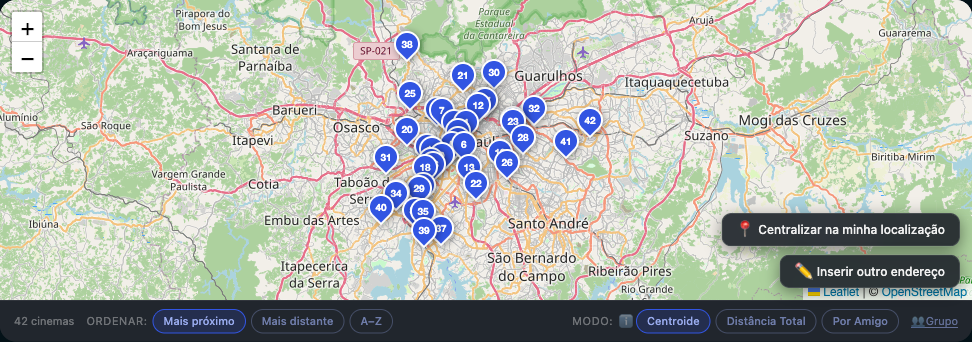
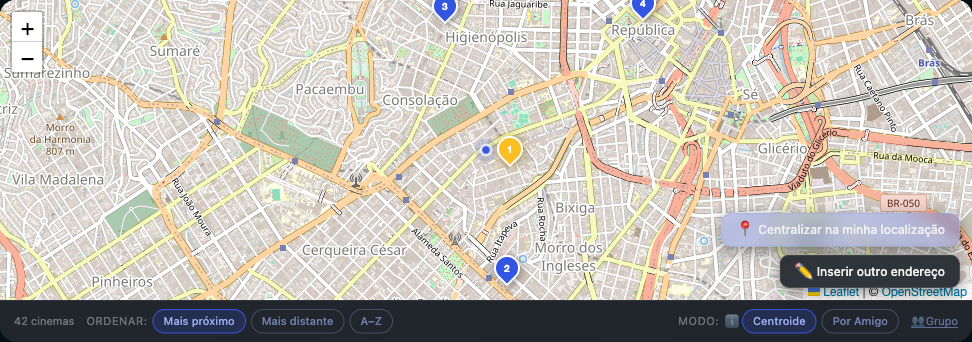
Update README screenshots for group mode and Por Amigo feature.
Add new capture flow with three group addresses, fix missing image paths, and crop the friends modal for cleaner README embeds.

diff --git a/README.md b/README.md
@@ -13,7 +13,7 @@ Veja os horários, compare distâncias e encontre o cinema mais conveniente — 
 - **Localização flexível** — geolocalização automática, busca por endereço ou arraste do marcador no mapa
 - **Pré-visualização** — confirme o endereço no mapa antes de aplicar (marcador laranja → azul ao confirmar)
 - **Restrito à cidade** — geocodificação e cinemas respeitam a cidade selecionada no site
-- **Modo grupo** — adicione endereços de amigos e encontre o cinema ideal (centroide, distância total ou por amigo)
+- **Modo grupo** — adicione endereços de amigos e compare cinemas (centroide ou por amigo)
 - **Atualização automática** — detecta troca de dia e mudança de cidade na página
 
 ## Instalação
@@ -41,7 +41,7 @@ A extensão aparece em qualquer página `https://www.ingresso.com/filme/*`.
 1. Abra um filme em cartaz no ingresso.com (ex.: [Homem-Aranha](https://www.ingresso.com/filme/homem-aranha-um-novo-dia?city=sao-paulo))
 2. O mapa carrega no topo da lista de cinemas
 3. Permita a localização ou use **Inserir outro endereço** para buscar manualmente
-4. Use os chips **Mais próximo / Mais distante / A–Z** para ordenar
+4. Use os chips **Mais próximo / Mais distante / A–Z** para ordenar — o pin amarelo destaca o cinema correspondente ao filtro
 5. Clique em **Grupo** para comparar cinemas com amigos
 
 ### Buscar endereço
@@ -56,26 +56,34 @@ Digite o endereço e clique **Buscar**. A busca é limitada à cidade selecionad
 
 O marcador laranja mostra a pré-visualização. Arraste para ajustar e clique **Confirmar localização**.
 
+### Lista de cinemas ordenada
+
+![Cinema com badge de distância](docs/screenshots/04-cinema-list.png)
+
+Cada card na página recebe um badge numerado com a distância em km.
+
 ### Modo grupo
 
-![Modal de modo grupo](docs/screenshots/04-group-mode.png)
+![Endereços dos amigos no modal](docs/screenshots/05-group-friends.png)
 
 Adicione endereços de amigos por busca ou clique no mapa. Escolha o modo de cálculo:
 
 | Modo | Descrição |
 |------|-----------|
-| **Centroide** | Cinema mais próximo do ponto médio do grupo |
+| **Centroide** | Cinema mais próximo do ponto médio do grupo (pin amarelo) |
 | **Por Amigo** | Cor por amigo; pin colorido no cinema mais próximo de cada um |
 
-### Lista de cinemas ordenada
+![Mapa Por Amigo com pins coloridos](docs/screenshots/06-group-per-friend-map.png)
 
-![Cinema com badge de distância](docs/screenshots/05-cinema-list.png)
+No modo **Por Amigo**, cada amigo recebe uma cor. O cinema mais próximo de cada um fica com pin na mesma cor; a lista abaixo mostra a distância individual.
 
-Cada card na página recebe um badge numerado com a distância em km.
+![Cinema com distâncias por amigo](docs/screenshots/07-cinema-list-per-friend.png)
+
+Cada card exibe uma linha por amigo (cor, endereço e distância). O ★ marca o cinema ideal daquele amigo.
 
 ## Capturas de tela
 
-As imagens acima são geradas automaticamente com Playwright, carregando a extensão real no Chrome:
+As imagens acima são geradas automaticamente com Playwright, carregando a extensão real no Chromium:
 
 ```bash
 npm install
